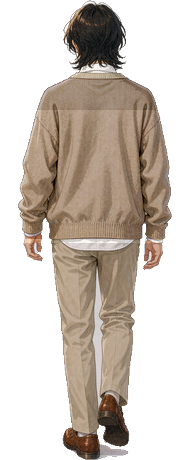
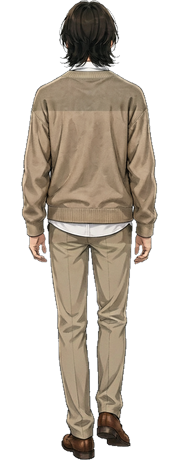
feat: 补齐 NPC 走路/侧站/背站素材，修复上门时正面滑行
- world.visitorPositions() 补上 moving / facing：渲染器靠这两个值决定
  切走路帧与朝向，之前只传坐标，导致 NPC 永远正面朝下、用站立图平移
- 5 个会上门的 NPC（周予安/唐果/阿岚/宋小满/顾星野）各补 8 张：
  侧面站立、背面站立，以及正面/侧面/背面走路各两帧
- 4 个主角重做正面与背面走路各两帧：原来两帧几乎一样，正面走起来像站着滑

Changed region(s): [[0.0843, 0.0, 0.8989, 1.0], [0.618, 0.213, 0.6461, 0.2435]]

diff --git a/campus-life/web/bundle.js b/campus-life/web/bundle.js
@@ -4034,7 +4034,10 @@ class CampusWorld {
   visitorPositions() {
     const map = {};
     Object.keys(this.visitors).forEach(id => {
-      map[id] = { x: this.visitors[id].x, y: this.visitors[id].y };
+      const v = this.visitors[id];
+      // moving / facing 必须一起传：渲染器靠它们决定切走路帧、画侧面还是正面。
+      // 只给坐标的话，NPC 会永远正面朝下、用站立图平移，看着像滑行的幽灵。
+      map[id] = { x: v.x, y: v.y, moving: !!v.moving, facing: v.facing || 'down' };
     });
     return map;
   }

diff --git a/campus-life/miniprogram/engine/world.js b/campus-life/miniprogram/engine/world.js
@@ -35,7 +35,10 @@ class CampusWorld {
   visitorPositions() {
     const map = {};
     Object.keys(this.visitors).forEach(id => {
-      map[id] = { x: this.visitors[id].x, y: this.visitors[id].y };
+      const v = this.visitors[id];
+      // moving / facing 必须一起传：渲染器靠它们决定切走路帧、画侧面还是正面。
+      // 只给坐标的话，NPC 会永远正面朝下、用站立图平移，看着像滑行的幽灵。
+      map[id] = { x: v.x, y: v.y, moving: !!v.moving, facing: v.facing || 'down' };
     });
     return map;
   }

diff --git a/campus-life/web/index.html b/campus-life/web/index.html
@@ -53,6 +53,6 @@
     <div id="achv-layer" class="achv-layer"></div>
     <div id="modal-mask" class="modal-mask hidden"><div id="modal-content"></div></div>
   </main>
-  <script src="bundle.js?v=85f96e90"></script><script src="app.js?v=85f96e90"></script>
+  <script src="bundle.js?v=7295d8bf"></script><script src="app.js?v=7295d8bf"></script>
 </body>
 </html>
